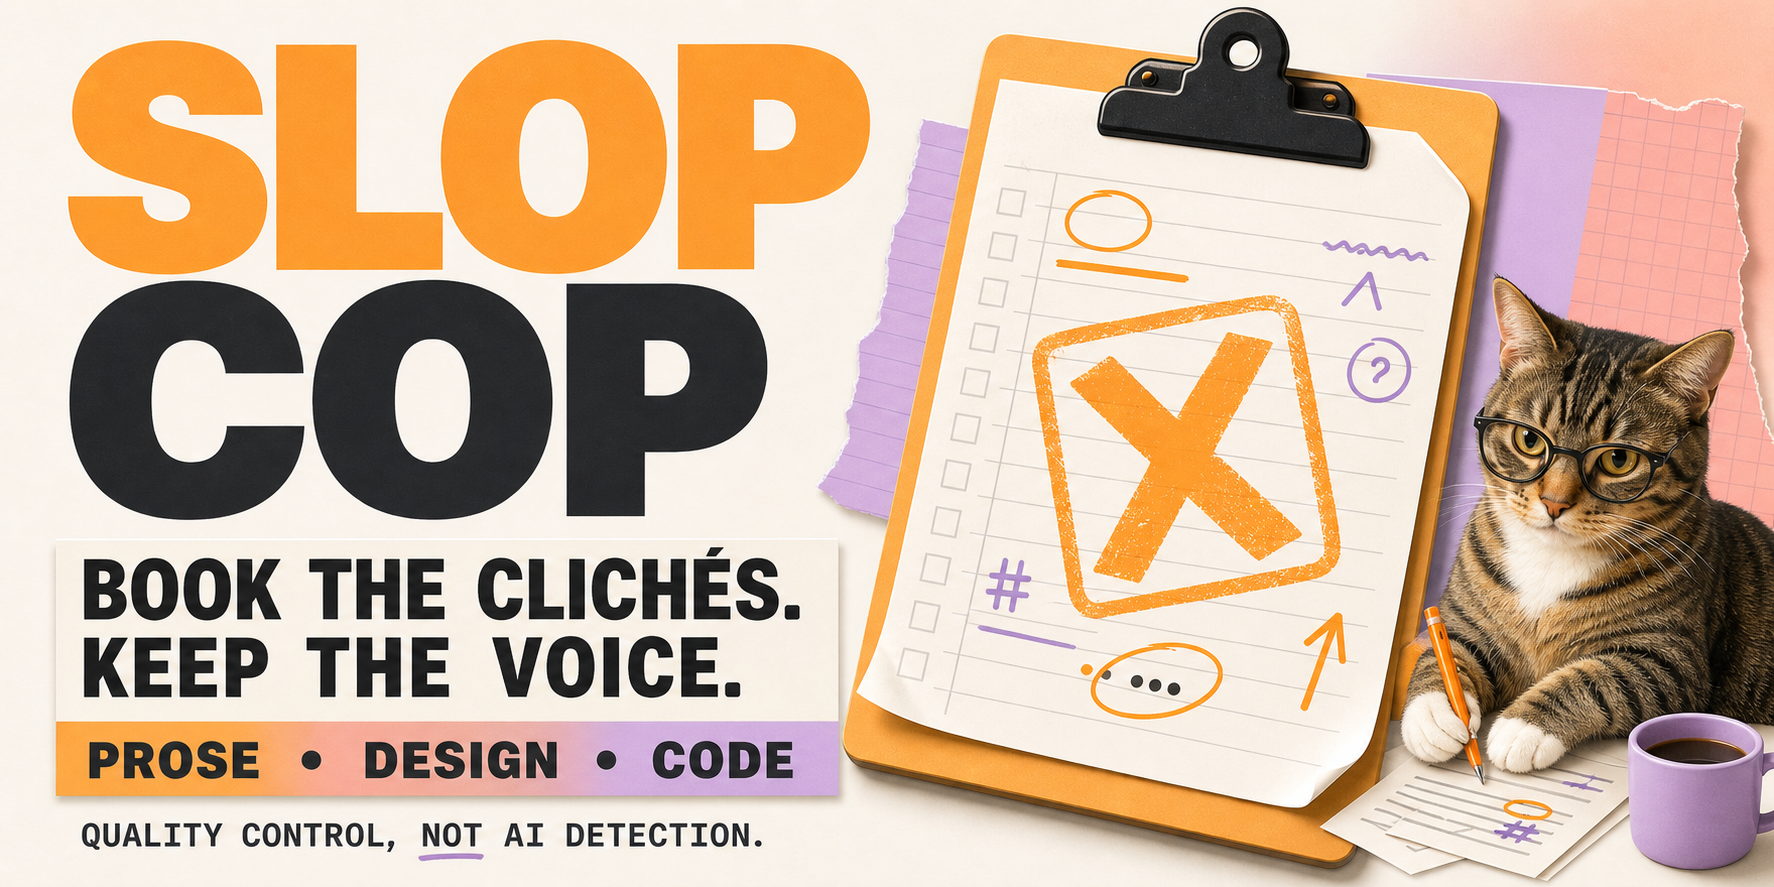
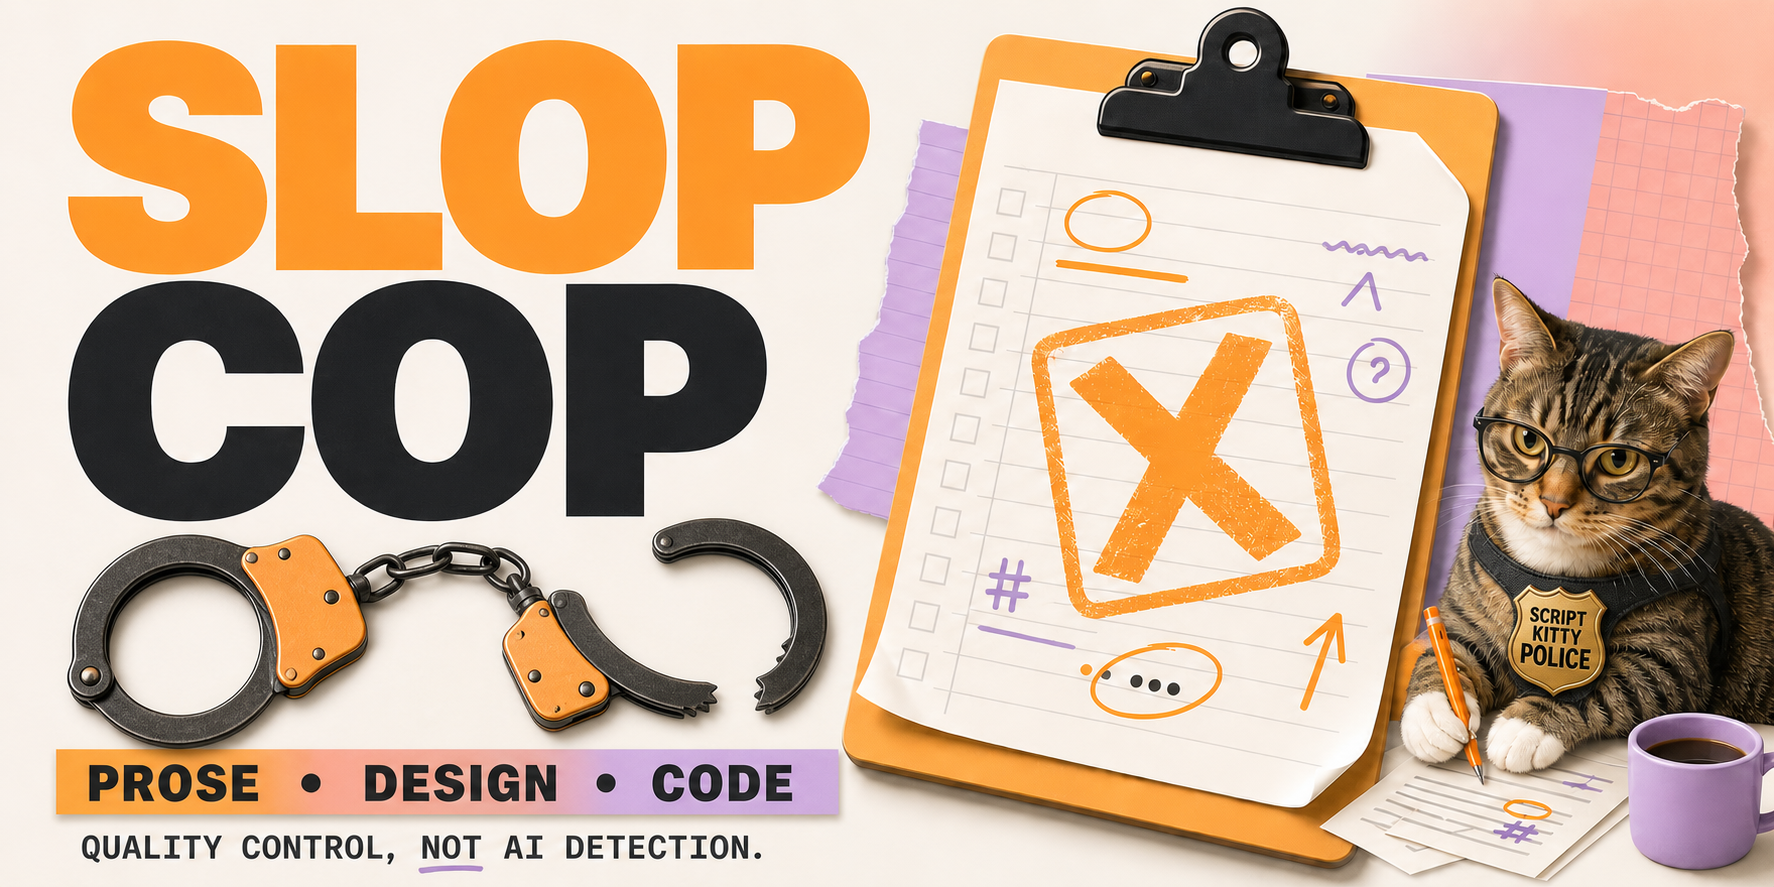
Align README and Script Kitty artwork with refreshed brand (#21)
* Align README with refreshed brand

* Add Script Kitty Police artwork

diff --git a/README.md b/README.md
@@ -1,6 +1,6 @@
 <!-- slop-cop-brand:hero:start -->
 <p align="center">
-  <img src="skills/slop-cop/assets/brand/slop-cop-hero.png" alt="Slop Cop: Book the clichés. Keep the voice." width="100%">
+  <img src="skills/slop-cop/assets/brand/slop-cop-hero.png?v=5" alt="Slop Cop cat officer booking clichés with handcuffs" width="100%">
 </p>
 <!-- slop-cop-brand:hero:end -->
 
@@ -12,9 +12,9 @@
 </p>
 
 <p align="center">
-  <img alt="license: MIT" src="https://img.shields.io/badge/license-MIT-FF2E88">
-  <img alt="beats: prose · design · code" src="https://img.shields.io/badge/beats-prose%20%C2%B7%20design%20%C2%B7%20code-C8FF00">
-  <img alt="works with: Claude Code, Codex, Cursor, GitHub Copilot" src="https://img.shields.io/badge/agents-Claude%20Code%20%C2%B7%20Codex%20%C2%B7%20Cursor%20%C2%B7%20Copilot-1A0B2E">
+  <img alt="license: MIT" src="https://img.shields.io/badge/license-MIT-FFAE4D">
+  <img alt="beats: prose · design · code" src="https://img.shields.io/badge/beats-prose%20%C2%B7%20design%20%C2%B7%20code-DCA4EA">
+  <img alt="works with: Claude Code, Codex, Cursor, GitHub Copilot" src="https://img.shields.io/badge/agents-Claude%20Code%20%C2%B7%20Codex%20%C2%B7%20Cursor%20%C2%B7%20Copilot-202124">
 </p>
 
 ## Install
@@ -139,7 +139,7 @@ A score below 35 normally needs revision. The score is an editorial aid, not an 
 
 <!-- slop-cop-brand:outcomes:start -->
 <p align="center">
-  <img src="skills/slop-cop/assets/brand/slop-cop-status-badges.png?v=3" alt="Slop Cop outcomes: Pass, Revise, and Booked" width="900">
+  <img src="skills/slop-cop/assets/brand/slop-cop-status-badges.png?v=4" alt="Slop Cop outcomes: Pass, Revise, and Booked" width="900">
 </p>
 <!-- slop-cop-brand:outcomes:end -->
 
@@ -228,16 +228,16 @@ MIT.
 <br>
 
 <p align="center">
-  <img src="skills/slop-cop/assets/brand/slop-cop-wordmark.png?v=3" alt="Slop Cop wordmark" width="850">
+  <img src="skills/slop-cop/assets/brand/slop-cop-wordmark.png?v=4" alt="Slop Cop wordmark with cat ears" width="850">
 </p>
 
 <table>
   <tr>
     <td width="34%" align="center">
-      <img src="skills/slop-cop/assets/brand/slop-cop-emblem.png?v=3" alt="Slop Cop clipboard emblem" width="280">
+      <img src="skills/slop-cop/assets/brand/slop-cop-emblem.png?v=4" alt="Slop Cop cat clipboard emblem" width="280">
     </td>
     <td width="66%" align="center">
-      <img src="skills/slop-cop/assets/brand/slop-cop-social-card.png" alt="Slop Cop social card" width="600">
+      <img src="skills/slop-cop/assets/brand/slop-cop-social-card.png?v=5" alt="Slop Cop social card with handcuffs and Script Kitty Police cat mascot" width="600">
     </td>
   </tr>
   <tr>
